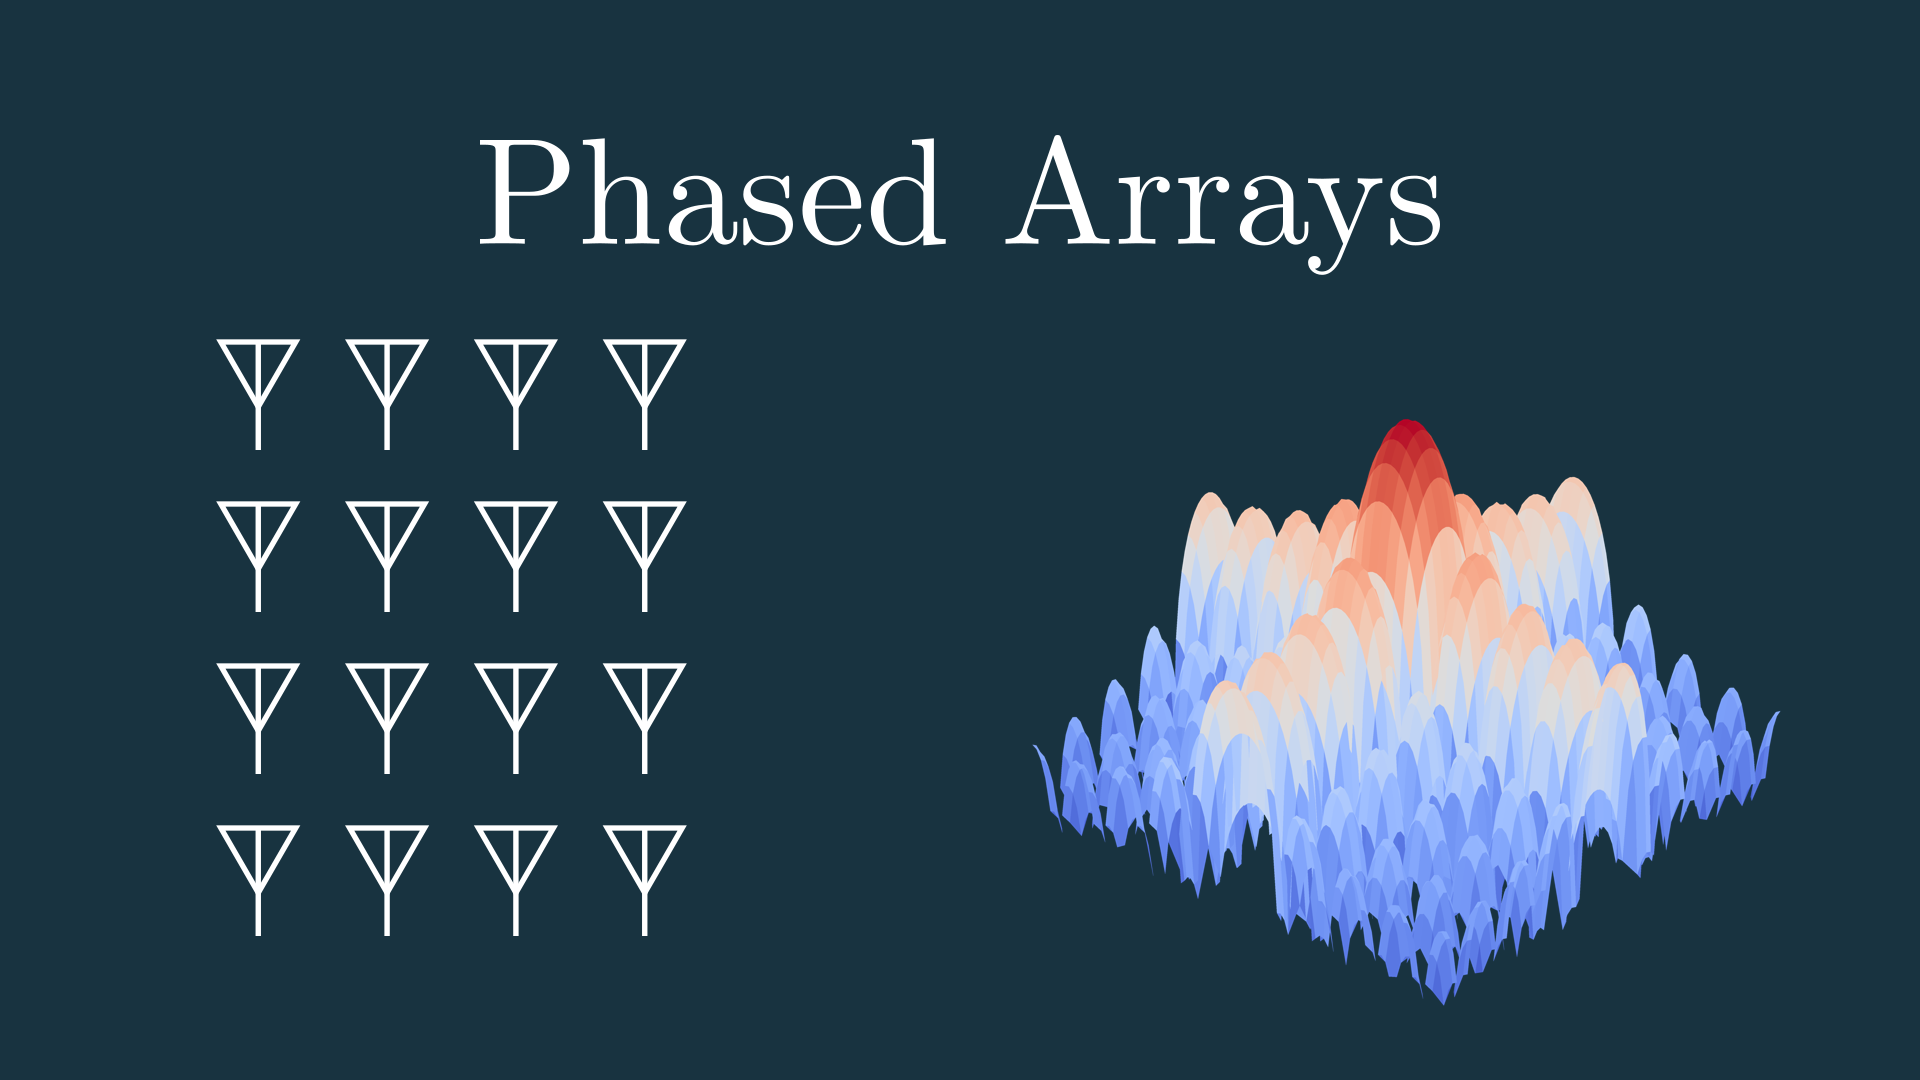
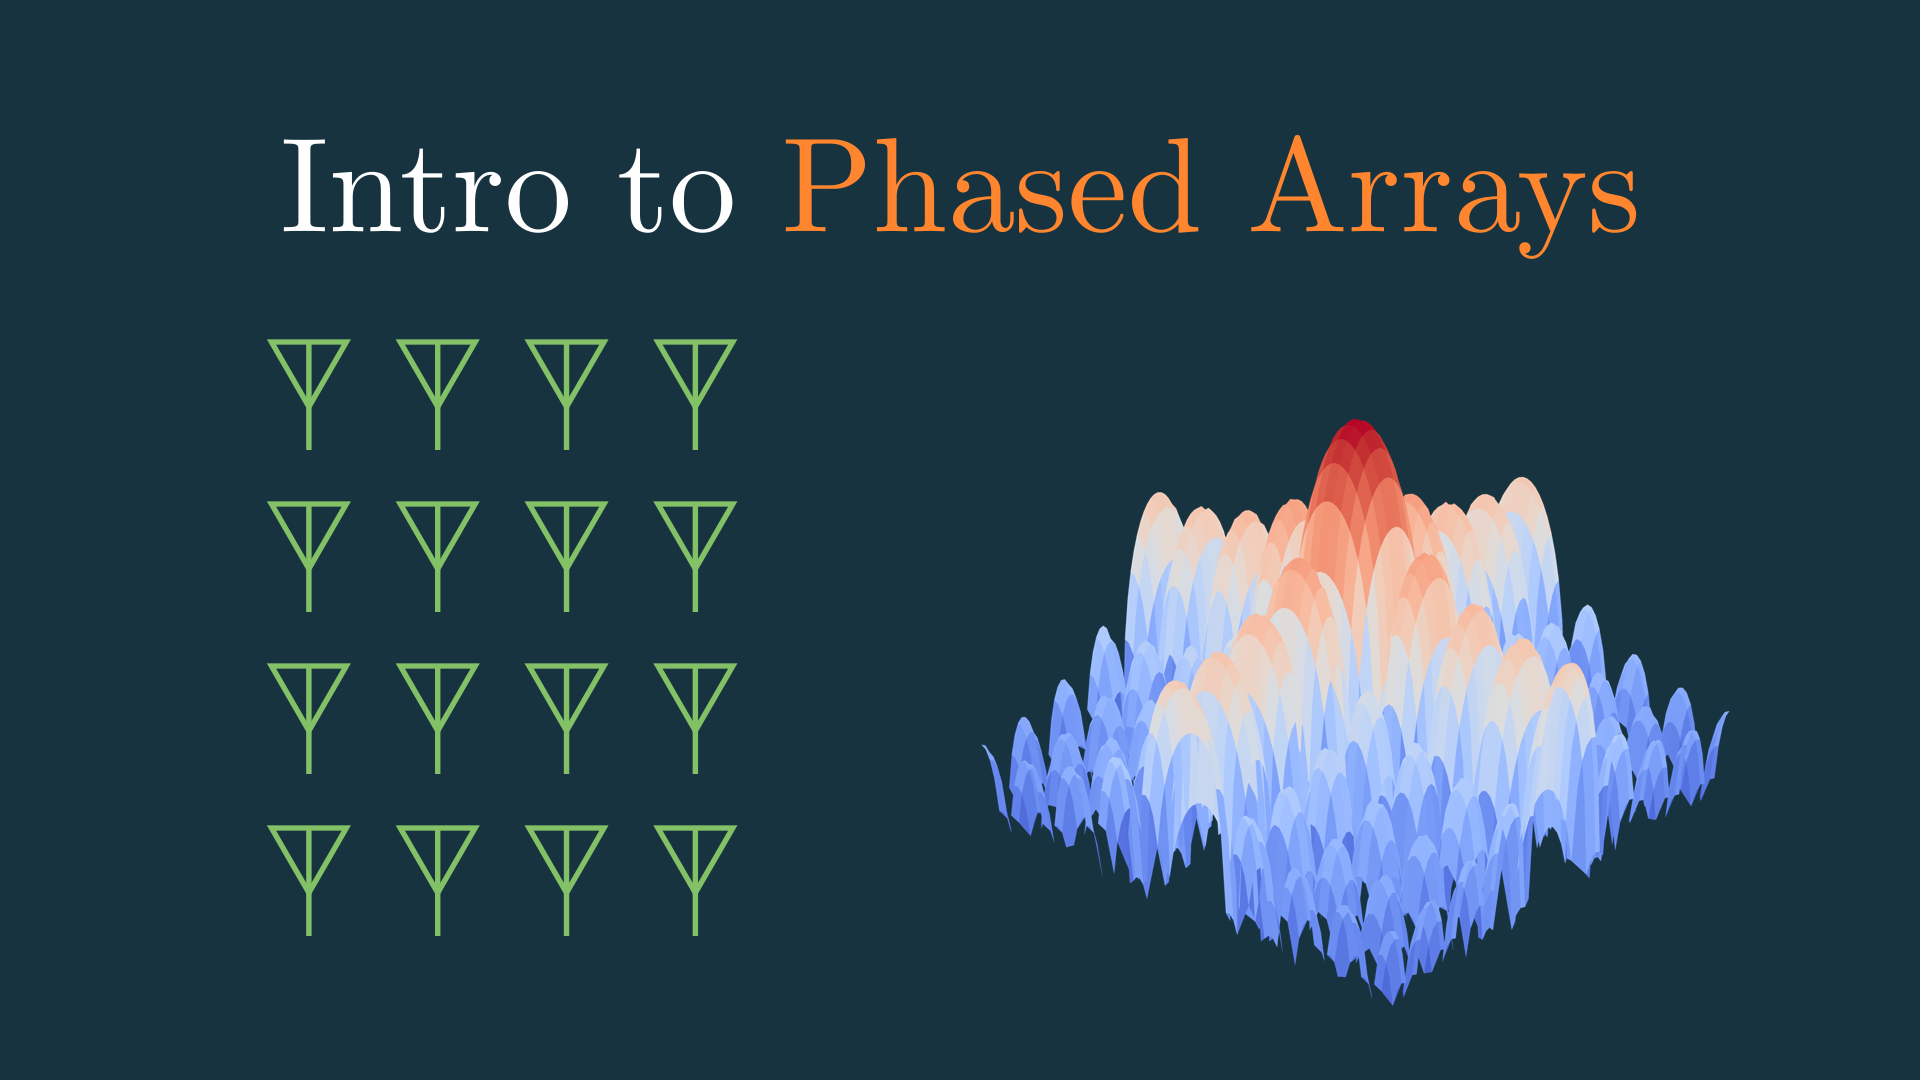
some thumbnail changes

diff --git a/05_phased_array/phased_array.py b/05_phased_array/phased_array.py
@@ -6676,20 +6676,17 @@ class FillExample(Scene):
 
 class Thumbnail(Scene):
     def construct(self):
-        title = (
-            Tex("Phased Arrays")
-            .scale_to_fit_width(config.frame_width * 0.5)
-            .to_edge(UP, LARGE_BUFF)
-        )
+        title = Tex("Intro to ", "Phased Arrays").scale(2).to_edge(UP, LARGE_BUFF)
+        title[1].set_color(ORANGE)
         rect_pattern = ImageMobject("./static/rect.png").scale_to_fit_width(
             config.frame_width * 0.6
         )
 
         antennas = Group()
         for _ in range(16):
-            antenna_port = Line(ORIGIN, UP, color=WHITE)
+            antenna_port = Line(ORIGIN, UP, color=GREEN)
             antenna_tri = (
-                Triangle(color=WHITE)
+                Triangle(color=GREEN)
                 .scale(0.4)
                 .rotate(PI / 3)
                 .move_to(antenna_port, UP)
@@ -6697,7 +6694,7 @@ class Thumbnail(Scene):
             antenna = Group(antenna_port, antenna_tri)
             antennas.add(antenna)
         antennas.arrange_in_grid(4, 4, buff=MED_LARGE_BUFF).scale(0.8)
-        Group(antennas, rect_pattern).arrange(RIGHT, LARGE_BUFF).to_edge(
+        Group(antennas, rect_pattern).arrange(RIGHT, MED_SMALL_BUFF).to_edge(
             DOWN, LARGE_BUFF
         ).shift(RIGHT + DOWN * 2)
         self.add(title, rect_pattern, antennas)
@@ -6866,10 +6863,11 @@ class Thumbnail2(MovingCameraScene):
         self.wait(0.5)
 
         ap_label = (
-            Tex("Phased Arrays")
+            Tex("Intro to ", "Phased Arrays")
             .next_to(self.camera.frame.get_top(), DOWN, LARGE_BUFF)
             .scale(2)
         )
+        ap_label[1].set_color(ORANGE)
         self.add(ap_label)
 
         self.next_section(skip_animations=skip_animations(True))

diff --git a/05_phased_array/media/Tex/20b3509630bd2cb0.tex b/05_phased_array/media/Tex/20b3509630bd2cb0.tex
@@ -1,0 +1,9 @@
+\documentclass[preview]{standalone}
+\usepackage[english]{babel}
+\usepackage{amsmath}
+\usepackage{amssymb}
+\begin{document}
+\begin{center}
+Intro to Phased Arrays
+\end{center}
+\end{document}

diff --git a/05_phased_array/media/Tex/bfc55bb233180491.tex b/05_phased_array/media/Tex/bfc55bb233180491.tex
@@ -1,0 +1,9 @@
+\documentclass[preview]{standalone}
+\usepackage[english]{babel}
+\usepackage{amsmath}
+\usepackage{amssymb}
+\begin{document}
+\begin{center}
+Intro to
+\end{center}
+\end{document}
